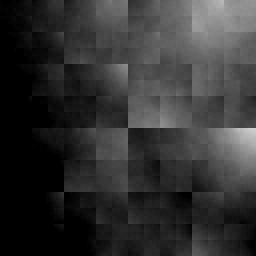
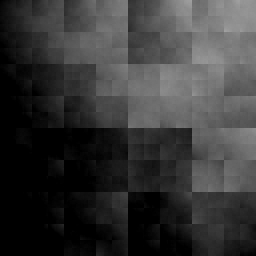
Testing

diff --git a/Lab1/MainGame.cpp b/Lab1/MainGame.cpp
@@ -307,7 +307,9 @@ void MainGame::linkNoiseShader()
 
 	//set textures
 	glActiveTexture(GL_TEXTURE0); //set acitve texture unit
-	glBindTexture(GL_TEXTURE_2D, noiseTexture.ID());
+	if(isADSEnabled){ glBindTexture(GL_TEXTURE_2D, noiseTexture.ID()); }
+	else{ glBindTexture(GL_TEXTURE_2D, generatedPerlinNoiseTexture.ID()); }
+
 	glUniform1i(t1L, 0);
 
 	glActiveTexture(GL_TEXTURE1); //set acitve texture unit
@@ -318,7 +320,7 @@ void MainGame::linkNoiseShader()
 
 
 	monkey->transform.SetPos(glm::vec3(0.0, 0.0, -25));
-	monkey->transform.SetRot(glm::vec3(0.0+ counter, 10, 0.0 + counter));
+	monkey->transform.SetRot(glm::vec3(90, 0, 90));
 	monkey->transform.SetScale(glm::vec3(1.2, 1.2, 1.2));
 
 	//myCamera.MoveRight(0.0001);
@@ -454,17 +456,20 @@ void MainGame::drawGame()
 	
 	renderSkybox();
 	linkNoiseShader();
-	renderActiveShader();
+	//renderActiveShader();
 
+
+	// For whatever reason we need to render some kind of shader for the text to render.
+	// If we render none, the text wont render despite the fact we are disabling shaders in the UI
+	enviroMappingShader.Bind();
+	linkEnviroMapping();
 	// ----- 2D Rendering -----
 	
 	// Clear depth buffer
 	glClear(GL_DEPTH_BUFFER_BIT);
 
-	// Clear any active shaders
-	glUseProgram(0); // Disable shaders
-
 	// Disable 3D-specific settings
+	glUseProgram(0); // Disable shaders
 	glDisable(GL_DEPTH_TEST);
 	glDisable(GL_CULL_FACE);
 

diff --git a/Lab1/PerlinNoiseGenerator.cpp b/Lab1/PerlinNoiseGenerator.cpp
@@ -90,7 +90,7 @@ void PerlinNoiseGenerator::CreatePerlinNoiseTexture()
 	}
 	// Convert float values in textureData to unsigned char for image format (grayscale)
 	for (int i = 0; i < width * height; ++i) {
-		data[i] = static_cast<unsigned char>(std::min(255.0f, std::max(0.0f, 1 - textureData[i] * 255.0f)));
+		data[i] = static_cast<unsigned char>(std::min(255.0f, std::max(0.0f, textureData[i] * 255.0f)));
 	}
 
 	// Testing path
